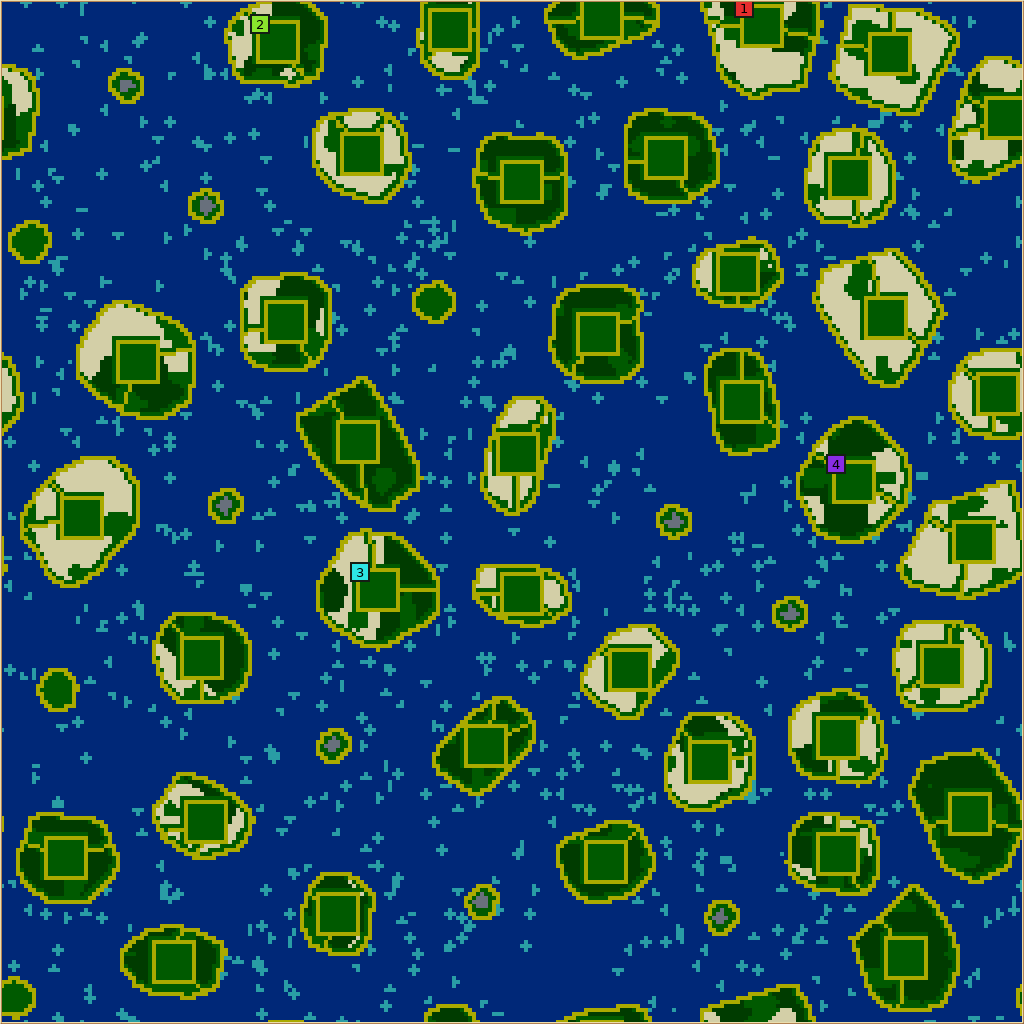
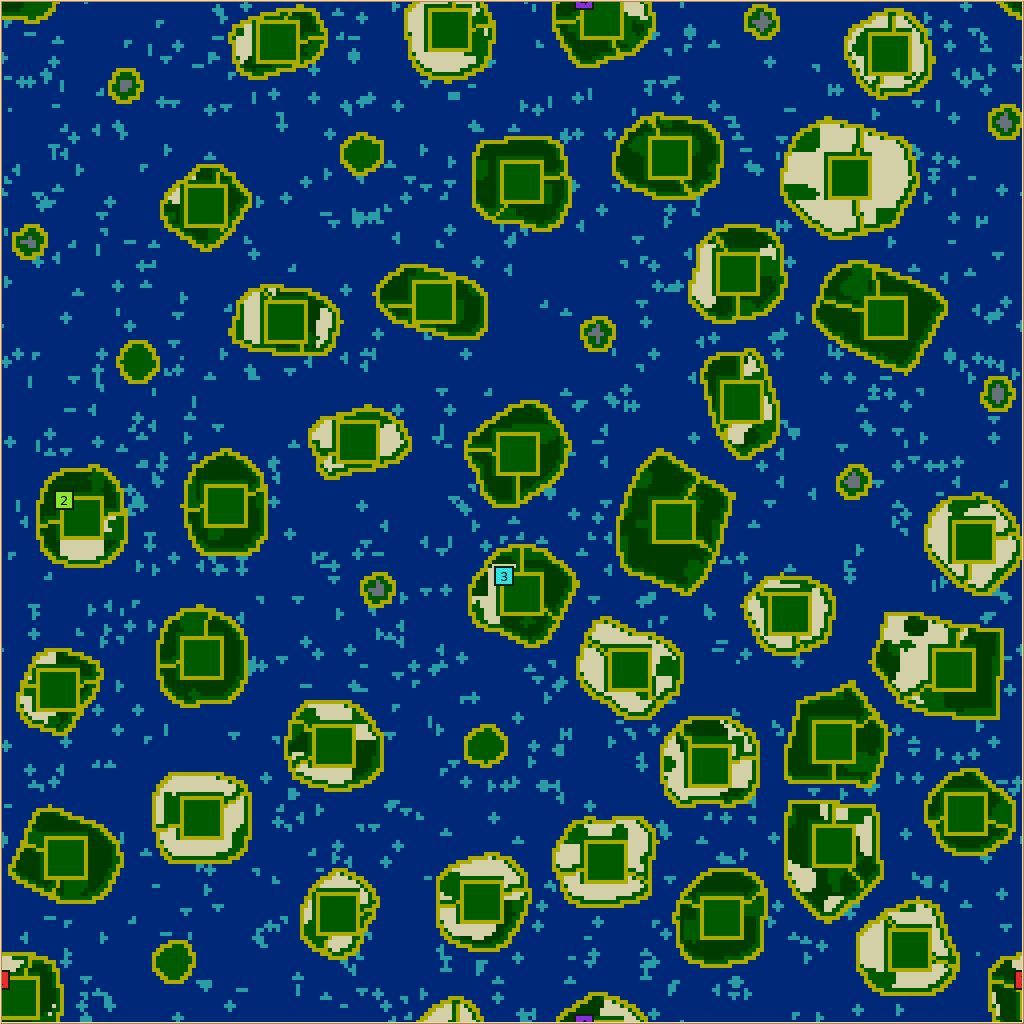
Plantations: reshape the islands after the deal, the colonies' own only mildly
A first cut varied every island before the homes were chosen; the rotation tournament paid for it
with a 30-point position bias (pooled per-start units 104 to 183). Every island is now stamped
nominal first, the homes and granted islands dealt on that as before, and only then reshaped: a
colony's islands keep their size and vary in squareness, wobble and a slight stretch (any that
loses its plot reverts), the neutral islands draw the whole range.

Claude-Session: https://claude.ai/code/session_01CuBTRUddtVPkUWAdhHsFto

diff --git a/src/map/generator/generators/PlantationsGenerator.cpp b/src/map/generator/generators/PlantationsGenerator.cpp
@@ -112,16 +112,20 @@ constexpr double kCornerReach = 1.1225; // 2^(1/2 - 1/3)
 constexpr double kCoastAmplitude = 0.3;
 constexpr int kBorderWarpPercent = 30;
 // VARIETY. Islands all of one size and one rounded-square outline read as a tray of biscuits (a
-// maintainer's first look said so). Where the seed threw at least kVarietyRoom times the islands the
-// colonies need, each island draws a class: a third stay the nominal island, exactly full and
-// unstretched, so homes always have their standard; the rest are smaller (kSizeFactors below 1) or
-// larger (above 1, filling their cell to the strait), stretched along a random heading by up to
-// kStretch (the area held, the short axis narrower), with their own squareness between
-// kSquarenessLow and kSquarenessHigh (a disc to a block) and their own share of the coast wobble. A
-// small or stretched island measures short of full and becomes a granted island or a field; a large
-// one measures full and may be a home. On a crowded map every island stays nominal, as before.
+// maintainer's first look said so). Every island is first stamped nominal, measured, and the homes
+// and granted islands chosen on that, exactly as when every island was nominal; then, where the seed
+// threw at least kVarietyRoom times the islands the colonies need, the islands are reshaped. A
+// colony's own islands keep their size (their room is what the colony was dealt) and vary only in
+// squareness, wobble and a stretch of at most kOwnedStretch, and any that loses its plot goes back to
+// nominal; the neutral islands draw the whole range: smaller (kSizeFactors below 1) or larger (above
+// 1, filling their cell to the strait), stretched along a random heading by up to kStretch (the
+// area held, the short axis narrower), rounder or squarer between kSquarenessLow and
+// kSquarenessHigh, more or less wobbled. A first cut varied the homes' islands too, and a rotation
+// tournament paid for it with a 30-point position bias; the deal must stay what it was. On a
+// crowded map every island stays nominal.
 constexpr double kSizeFactors[] = {0.82, 0.9, 1.0, 1.0, 1.2, 1.35};
-constexpr double kStretch = 1.35, kSquarenessLow = 2.2, kSquarenessHigh = 3.5;
+constexpr double kStretch = 1.35, kOwnedStretch = 1.12;
+constexpr double kSquarenessLow = 2.2, kSquarenessHigh = 3.5;
 constexpr double kWobbleShareLow = 0.6, kWobbleShareHigh = 1.5;
 constexpr int kVarietyRoom = 2;
 // Lloyd relaxation rounds after the darts: three even the cells out without moving a site so far that
@@ -363,16 +367,15 @@ Layout design(const GenerationRequest &request, GenerationContext &context)
 	};
 	const bool varied = cells >= kVarietyRoom * cellsNeeded();
 	context.telemetry.measure("plantations.islands.varied", varied);
-	const auto drawShape = [&]
+	const auto drawShape = [&](bool owned)
 	{
 		IslandShape shape;
-		if (!varied)
-			return shape;
 		const char *stream = "plantations-island-shapes";
-		shape.size = kSizeFactors[context.bounded(stream, 6)];
-		if (shape.size != 1.0)
+		shape.size = owned ? 1.0 : kSizeFactors[context.bounded(stream, 6)];
+		if (owned || shape.size != 1.0)
 		{
-			shape.stretch = 1 + (kStretch - 1) * context.bounded(stream, 1000) / 1000.0;
+			const double most = owned ? kOwnedStretch : kStretch;
+			shape.stretch = 1 + (most - 1) * context.bounded(stream, 1000) / 1000.0;
 			shape.heading = kPi * context.bounded(stream, 3600) / 3600.0;
 		}
 		shape.exponent = kSquarenessLow +
@@ -380,6 +383,17 @@ Layout design(const GenerationRequest &request, GenerationContext &context)
 		shape.wobble = kWobbleShareLow +
 					   (kWobbleShareHigh - kWobbleShareLow) * context.bounded(stream, 1000) / 1000.0;
 		return shape;
+	};
+	const auto clearIsland = [&](int s)
+	{
+		const int reach = int(std::ceil(landRadius * kSizeFactors[5] * kCornerReach * 2 * kStretch)) + 2;
+		for (int dy = -reach; dy <= reach; ++dy)
+			for (int dx = -reach; dx <= reach; ++dx)
+			{
+				const int i = t.at(L.sites[s].x + dx, L.sites[s].y + dy);
+				if (L.cell[i] == s)
+					L.land[i] = 0;
+			}
 	};
 	const auto stampIsland = [&](int s, double radius, double exponent, const IslandShape &shape)
 	{
@@ -407,8 +421,7 @@ Layout design(const GenerationRequest &request, GenerationContext &context)
 	for (int s = 0; s < cells; ++s)
 	{
 		L.islands[s].site = L.sites[s];
-		const IslandShape shape = drawShape();
-		stampIsland(s, landRadius, shape.exponent, shape);
+		stampIsland(s, landRadius, kSquareness, IslandShape{});
 	}
 	// A plot fits where the island has the room the nominal outline would have with a crop band of
 	// kLeastFarm (its corners then reach the beach and its sides keep a few tiles of crops); a full
@@ -497,6 +510,36 @@ Layout design(const GenerationRequest &request, GenerationContext &context)
 			// read differently and it has a reason to work both; any more alternate.
 			island.kind = g % 2 == 0 ? Wheat : Wood;
 		}
+	}
+	// THE RESHAPING (VARIETY above): the colonies' islands mildly, the rest of the archipelago
+	// fully, then measured again; a colony's island that lost its plot (or a home its fullness)
+	// goes back to nominal.
+	if (varied)
+	{
+		std::vector<unsigned char> owned(size_t(cells), 0);
+		for (int cell : L.homeCell)
+			owned[cell] = 1;
+		for (const auto &granted : L.grantedCells)
+			for (int cell : granted)
+				owned[cell] = 1;
+		for (int s = 0; s < cells; ++s)
+		{
+			const IslandShape shape = drawShape(owned[s]);
+			clearIsland(s);
+			stampIsland(s, landRadius, shape.exponent, shape);
+		}
+		measureIslands();
+		int reverted = 0;
+		for (int s = 0; s < cells; ++s)
+			if (owned[s] && (!hasPlot[s] || (L.islands[s].home && !full[s])))
+			{
+				clearIsland(s);
+				stampIsland(s, landRadius, kSquareness, IslandShape{});
+				++reverted;
+			}
+		if (reverted)
+			measureIslands();
+		context.telemetry.measure("plantations.islands.reverted", reverted);
 	}
 	L.rockCells.assign(teams, {});
 	for (int k = 0; k < teams && L.rockIslets; ++k)

diff --git a/docs/map-generators/MAP_GENERATOR_FRAMEWORK.md b/docs/map-generators/MAP_GENERATOR_FRAMEWORK.md
@@ -1618,12 +1618,14 @@ the next island's first grass. A plot is smaller than a base (8 tiles square), s
 holds several islands from the first minute: its home island with the swarm and a completed
 swimming pool, and granted islands with a pool and an inn each (`claimNeighbourCells` deals them
 round by round, as many to each colony as to any other), with a rock islet beside them. The rest
-are neutral plantations of wheat, wood or both, orchard islets and rock islets. Where the seed
-threw at least twice the islands the colonies need, each island draws its own shape: a third stay
-the nominal rounded square, full and unstretched, so homes have their standard; the rest are smaller
-or larger (a large one fills its cell to the strait), stretched along a random heading with the area
-held, rounder or squarer, and more or less wobbled at the coast, so the archipelago reads as one
-coast's islands rather than a tray of the same biscuit. Room is the
+are neutral plantations of wheat, wood or both, orchard islets and rock islets. Every island is
+first stamped as the nominal rounded square and the homes and granted islands dealt on that; then,
+where the seed threw at least twice the islands the colonies need, the islands are reshaped: a
+colony's own keep their size and vary only in squareness, wobble and a slight stretch (one that
+loses its plot goes back to nominal), and the neutral ones draw the whole range, smaller or larger
+(a large one fills its cell to the strait), stretched along a random heading with the area held,
+rounder or squarer, more or less wobbled, so the archipelago reads as one coast's islands rather
+than a tray of the same biscuit without changing what any colony was dealt. Room is the
 scarcity and the swim is the cost; fairness is statistical (farthest-apart homes, nearest
 granted islands) and the lobby keeps the best-scoring roll. See the generator header for the
 sizes at the defaults, the shrinking order on small maps (crop band, then granted count, then
@@ -1635,8 +1637,10 @@ refusal) and every constant's reason.
   colony-games, a root-mean-square position bias of zero, and 45 to 65 starvation deaths per
   colony as swimmers outrun their inns, which is the map's cost of the swim. The defaults stand.
 - **Seen.** A maintainer's first look found the islands too alike, all one size and all round;
-  revision 2 gives them the shape classes above. The same tournament played on revision 2 is
-  recorded below the Vultures entry's example in the design notes.
+  revision 2 reshapes them as above. A first cut reshaped the colonies' islands with the rest,
+  and the same tournament paid for it with a 30-point position bias and pooled per-start units
+  from 104 to 183: what a colony is dealt must stay what it was. The tournament on the final
+  revision 2 is recorded in the pull request.
 
 ## Compatibility notes
 
